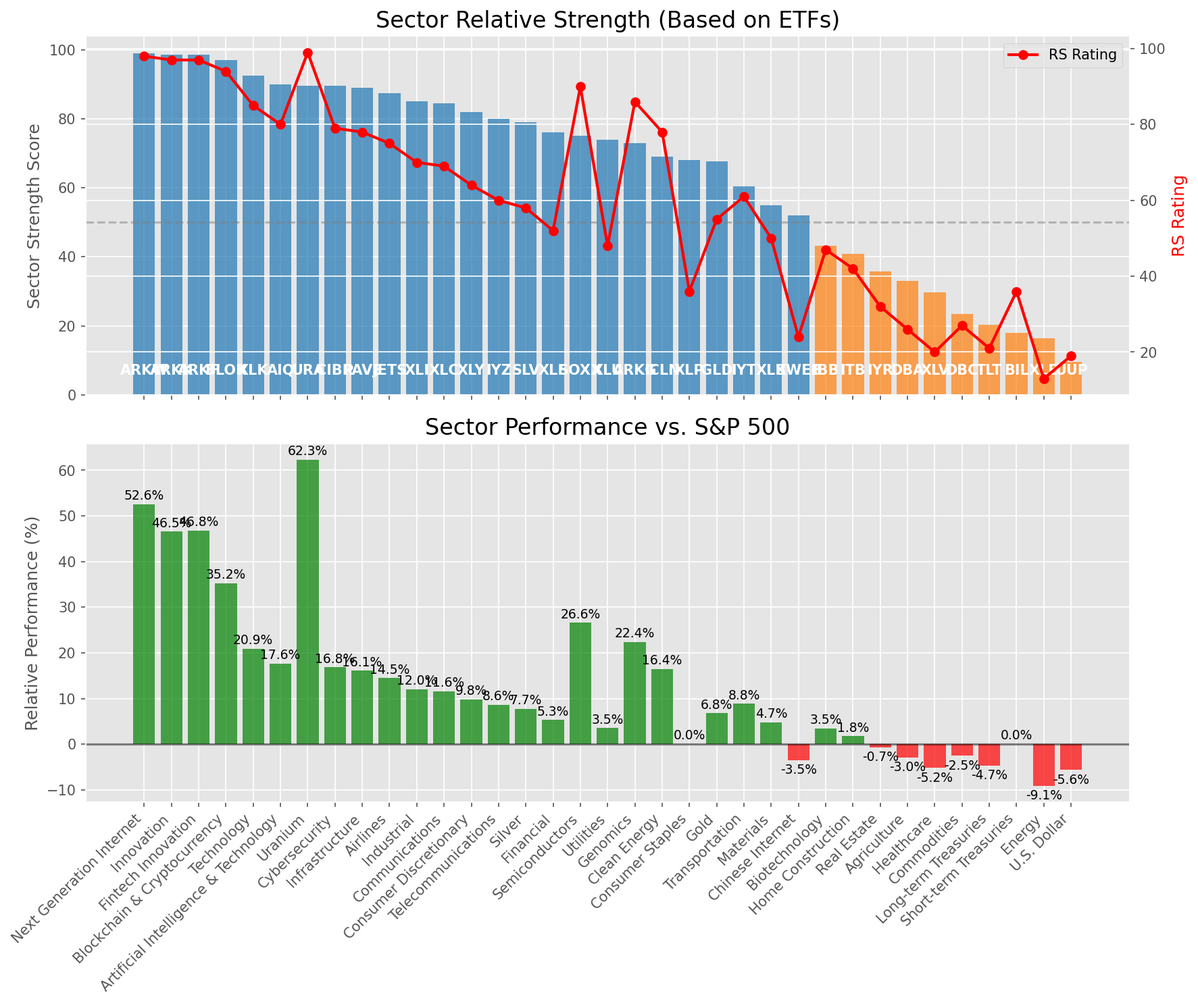
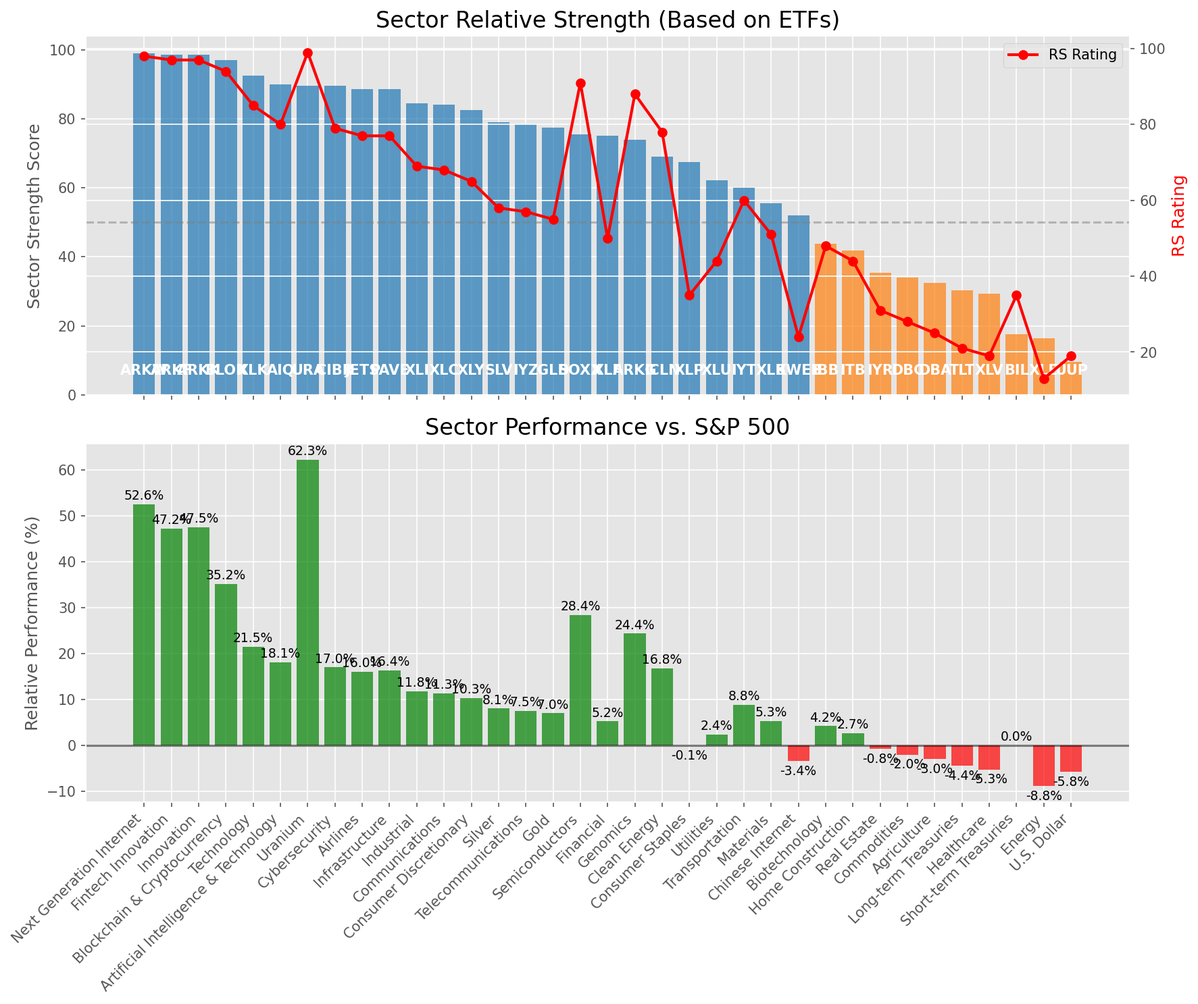
Add market report for 2025-07-02

diff --git a/oneil_relative_strength_report_2025-07-02.md b/oneil_relative_strength_report_2025-07-02.md
@@ -9,11 +9,11 @@
 | Metric | Value |
 |--------|-------|
 | **Market Valuation** | **Overvalued** |
-| **Current Ratio** | 10.15 |
+| **Current Ratio** | 10.17 |
 | **Historical Mean** | 9.37 |
 | **Standard Deviation** | 0.47 |
 | **Z-Score (StdDev from Mean)** | 1.64 |
-| **Total Market Cap** | $304.23 trillion |
+| **Total Market Cap** | $304.67 trillion |
 | **GDP** | $29.96 trillion |
 
 ## **Market Insights**
@@ -50,40 +50,40 @@ Based on William O'Neil's Relative Strength Methodology
 | ETF | Strength | RS Rating | Performance | Above Key MAs | Trend | Sector |
 |-----|----------|-----------|-------------|--------------|-------|--------|
 | [ARKW](https://www.tradingview.com/chart/?symbol=ARKW) | 99.0 | 98.0 | 52.59% | 10d ✓, 50d ✓, 200d ✓ | ↗ | Next Generation Internet |
-| [ARKK](https://www.tradingview.com/chart/?symbol=ARKK) | 98.5 | 97.0 | 46.55% | 10d ✓, 50d ✓, 200d ✓ | ↗ | Innovation |
-| [ARKF](https://www.tradingview.com/chart/?symbol=ARKF) | 98.5 | 97.0 | 46.79% | 10d ✓, 50d ✓, 200d ✓ | ↗ | Fintech Innovation |
+| [ARKF](https://www.tradingview.com/chart/?symbol=ARKF) | 98.5 | 97.0 | 47.24% | 10d ✓, 50d ✓, 200d ✓ | ↗ | Fintech Innovation |
+| [ARKK](https://www.tradingview.com/chart/?symbol=ARKK) | 98.5 | 97.0 | 47.52% | 10d ✓, 50d ✓, 200d ✓ | ↗ | Innovation |
 | [BLOK](https://www.tradingview.com/chart/?symbol=BLOK) | 97.0 | 94.0 | 35.23% | 10d ✓, 50d ✓, 200d ✓ | ↗ | Blockchain & Cryptocurrency |
-| [XLK](https://www.tradingview.com/chart/?symbol=XLK) | 92.5 | 85.0 | 20.91% | 10d ✓, 50d ✓, 200d ✓ | ↗ | Technology |
-| [AIQ](https://www.tradingview.com/chart/?symbol=AIQ) | 90.0 | 80.0 | 17.62% | 10d ✓, 50d ✓, 200d ✓ | ↗ | Artificial Intelligence & Technology |
-| [URA](https://www.tradingview.com/chart/?symbol=URA) | 89.6 | 99.0 | 62.31% | 10d ✗, 50d ✓, 200d ✓ | ↗ | Uranium |
-| [CIBR](https://www.tradingview.com/chart/?symbol=CIBR) | 89.5 | 79.0 | 16.85% | 10d ✓, 50d ✓, 200d ✓ | ↗ | Cybersecurity |
-| [PAVE](https://www.tradingview.com/chart/?symbol=PAVE) | 89.0 | 78.0 | 16.08% | 10d ✓, 50d ✓, 200d ✓ | ↗ | Infrastructure |
-| [JETS](https://www.tradingview.com/chart/?symbol=JETS) | 87.5 | 75.0 | 14.48% | 10d ✓, 50d ✓, 200d ✓ | ↗ | Airlines |
-| [XLI](https://www.tradingview.com/chart/?symbol=XLI) | 85.0 | 70.0 | 12.02% | 10d ✓, 50d ✓, 200d ✓ | ↗ | Industrial |
-| [XLC](https://www.tradingview.com/chart/?symbol=XLC) | 84.5 | 69.0 | 11.62% | 10d ✓, 50d ✓, 200d ✓ | ↗ | Communications |
-| [XLY](https://www.tradingview.com/chart/?symbol=XLY) | 82.0 | 64.0 | 9.79% | 10d ✓, 50d ✓, 200d ✓ | ↗ | Consumer Discretionary |
-| [IYZ](https://www.tradingview.com/chart/?symbol=IYZ) | 80.0 | 60.0 | 8.58% | 10d ✓, 50d ✓, 200d ✓ | ↗ | Telecommunications |
-| [SLV](https://www.tradingview.com/chart/?symbol=SLV) | 79.0 | 58.0 | 7.73% | 10d ✓, 50d ✓, 200d ✓ | ↗ | Silver |
-| [XLF](https://www.tradingview.com/chart/?symbol=XLF) | 76.0 | 52.0 | 5.29% | 10d ✓, 50d ✓, 200d ✓ | ↗ | Financial |
-| [SOXX](https://www.tradingview.com/chart/?symbol=SOXX) | 75.0 | 90.0 | 26.60% | 10d ✓, 50d ✓, 200d ✓ | ↘ | Semiconductors |
-| [XLU](https://www.tradingview.com/chart/?symbol=XLU) | 74.0 | 48.0 | 3.54% | 10d ✓, 50d ✓, 200d ✓ | ↗ | Utilities |
-| [ARKG](https://www.tradingview.com/chart/?symbol=ARKG) | 73.0 | 86.0 | 22.43% | 10d ✓, 50d ✓, 200d ✓ | ↘ | Genomics |
-| [ICLN](https://www.tradingview.com/chart/?symbol=ICLN) | 69.0 | 78.0 | 16.45% | 10d ✓, 50d ✓, 200d ✓ | ↘ | Clean Energy |
-| [XLP](https://www.tradingview.com/chart/?symbol=XLP) | 68.0 | 36.0 | 0.02% | 10d ✓, 50d ✓, 200d ✓ | ↗ | Consumer Staples |
-| [GLD](https://www.tradingview.com/chart/?symbol=GLD) | 67.6 | 55.0 | 6.79% | 10d ✗, 50d ✓, 200d ✓ | ↗ | Gold |
-| [IYT](https://www.tradingview.com/chart/?symbol=IYT) | 60.5 | 61.0 | 8.82% | 10d ✓, 50d ✓, 200d ✓ | ↘ | Transportation |
-| [XLB](https://www.tradingview.com/chart/?symbol=XLB) | 55.0 | 50.0 | 4.74% | 10d ✓, 50d ✓, 200d ✓ | ↘ | Materials |
-| [KWEB](https://www.tradingview.com/chart/?symbol=KWEB) | 52.1 | 24.0 | -3.50% | 10d ✗, 50d ✓, 200d ✓ | ↗ | Chinese Internet |
-| [IBB](https://www.tradingview.com/chart/?symbol=IBB) | 43.3 | 47.0 | 3.47% | 10d ✓, 50d ✓, 200d ✗ | ↘ | Biotechnology |
-| [ITB](https://www.tradingview.com/chart/?symbol=ITB) | 40.8 | 42.0 | 1.75% | 10d ✓, 50d ✓, 200d ✗ | ↘ | Home Construction |
-| [IYR](https://www.tradingview.com/chart/?symbol=IYR) | 35.8 | 32.0 | -0.66% | 10d ✓, 50d ✓, 200d ✗ | ↘ | Real Estate |
-| [DBA](https://www.tradingview.com/chart/?symbol=DBA) | 33.0 | 26.0 | -2.95% | 10d ✗, 50d ✗, 200d ✗ | ↗ | Agriculture |
-| [XLV](https://www.tradingview.com/chart/?symbol=XLV) | 29.8 | 20.0 | -5.22% | 10d ✓, 50d ✓, 200d ✗ | ↘ | Healthcare |
-| [DBC](https://www.tradingview.com/chart/?symbol=DBC) | 23.4 | 27.0 | -2.53% | 10d ✗, 50d ✓, 200d ✗ | ↘ | Commodities |
-| [TLT](https://www.tradingview.com/chart/?symbol=TLT) | 20.4 | 21.0 | -4.68% | 10d ✗, 50d ✓, 200d ✗ | ↘ | Long-term Treasuries |
-| [BIL](https://www.tradingview.com/chart/?symbol=BIL) | 18.0 | 36.0 | 0.02% | 10d ✗, 50d ✗, 200d ✗ | ↘ | Short-term Treasuries |
-| [XLE](https://www.tradingview.com/chart/?symbol=XLE) | 16.4 | 13.0 | -9.15% | 10d ✗, 50d ✓, 200d ✗ | ↘ | Energy |
-| [UUP](https://www.tradingview.com/chart/?symbol=UUP) | 9.5 | 19.0 | -5.62% | 10d ✗, 50d ✗, 200d ✗ | ↘ | U.S. Dollar |
+| [XLK](https://www.tradingview.com/chart/?symbol=XLK) | 92.5 | 85.0 | 21.55% | 10d ✓, 50d ✓, 200d ✓ | ↗ | Technology |
+| [AIQ](https://www.tradingview.com/chart/?symbol=AIQ) | 90.0 | 80.0 | 18.08% | 10d ✓, 50d ✓, 200d ✓ | ↗ | Artificial Intelligence & Technology |
+| [URA](https://www.tradingview.com/chart/?symbol=URA) | 89.6 | 99.0 | 62.26% | 10d ✗, 50d ✓, 200d ✓ | ↗ | Uranium |
+| [CIBR](https://www.tradingview.com/chart/?symbol=CIBR) | 89.5 | 79.0 | 17.03% | 10d ✓, 50d ✓, 200d ✓ | ↗ | Cybersecurity |
+| [JETS](https://www.tradingview.com/chart/?symbol=JETS) | 88.5 | 77.0 | 16.02% | 10d ✓, 50d ✓, 200d ✓ | ↗ | Airlines |
+| [PAVE](https://www.tradingview.com/chart/?symbol=PAVE) | 88.5 | 77.0 | 16.37% | 10d ✓, 50d ✓, 200d ✓ | ↗ | Infrastructure |
+| [XLI](https://www.tradingview.com/chart/?symbol=XLI) | 84.5 | 69.0 | 11.84% | 10d ✓, 50d ✓, 200d ✓ | ↗ | Industrial |
+| [XLC](https://www.tradingview.com/chart/?symbol=XLC) | 84.0 | 68.0 | 11.35% | 10d ✓, 50d ✓, 200d ✓ | ↗ | Communications |
+| [XLY](https://www.tradingview.com/chart/?symbol=XLY) | 82.5 | 65.0 | 10.29% | 10d ✓, 50d ✓, 200d ✓ | ↗ | Consumer Discretionary |
+| [SLV](https://www.tradingview.com/chart/?symbol=SLV) | 79.0 | 58.0 | 8.06% | 10d ✓, 50d ✓, 200d ✓ | ↗ | Silver |
+| [IYZ](https://www.tradingview.com/chart/?symbol=IYZ) | 78.5 | 57.0 | 7.53% | 10d ✓, 50d ✓, 200d ✓ | ↗ | Telecommunications |
+| [GLD](https://www.tradingview.com/chart/?symbol=GLD) | 77.5 | 55.0 | 7.01% | 10d ✓, 50d ✓, 200d ✓ | ↗ | Gold |
+| [SOXX](https://www.tradingview.com/chart/?symbol=SOXX) | 75.5 | 91.0 | 28.43% | 10d ✓, 50d ✓, 200d ✓ | ↘ | Semiconductors |
+| [XLF](https://www.tradingview.com/chart/?symbol=XLF) | 75.0 | 50.0 | 5.25% | 10d ✓, 50d ✓, 200d ✓ | ↗ | Financial |
+| [ARKG](https://www.tradingview.com/chart/?symbol=ARKG) | 74.0 | 88.0 | 24.36% | 10d ✓, 50d ✓, 200d ✓ | ↘ | Genomics |
+| [ICLN](https://www.tradingview.com/chart/?symbol=ICLN) | 69.0 | 78.0 | 16.80% | 10d ✓, 50d ✓, 200d ✓ | ↘ | Clean Energy |
+| [XLP](https://www.tradingview.com/chart/?symbol=XLP) | 67.5 | 35.0 | -0.06% | 10d ✓, 50d ✓, 200d ✓ | ↗ | Consumer Staples |
+| [XLU](https://www.tradingview.com/chart/?symbol=XLU) | 62.1 | 44.0 | 2.39% | 10d ✗, 50d ✓, 200d ✓ | ↗ | Utilities |
+| [IYT](https://www.tradingview.com/chart/?symbol=IYT) | 60.0 | 60.0 | 8.82% | 10d ✓, 50d ✓, 200d ✓ | ↘ | Transportation |
+| [XLB](https://www.tradingview.com/chart/?symbol=XLB) | 55.5 | 51.0 | 5.28% | 10d ✓, 50d ✓, 200d ✓ | ↘ | Materials |
+| [KWEB](https://www.tradingview.com/chart/?symbol=KWEB) | 52.1 | 24.0 | -3.40% | 10d ✗, 50d ✓, 200d ✓ | ↗ | Chinese Internet |
+| [IBB](https://www.tradingview.com/chart/?symbol=IBB) | 43.8 | 48.0 | 4.23% | 10d ✓, 50d ✓, 200d ✗ | ↘ | Biotechnology |
+| [ITB](https://www.tradingview.com/chart/?symbol=ITB) | 41.8 | 44.0 | 2.68% | 10d ✓, 50d ✓, 200d ✗ | ↘ | Home Construction |
+| [IYR](https://www.tradingview.com/chart/?symbol=IYR) | 35.3 | 31.0 | -0.78% | 10d ✓, 50d ✓, 200d ✗ | ↘ | Real Estate |
+| [DBC](https://www.tradingview.com/chart/?symbol=DBC) | 34.1 | 28.0 | -2.00% | 10d ✗, 50d ✓, 200d ✓ | ↘ | Commodities |
+| [DBA](https://www.tradingview.com/chart/?symbol=DBA) | 32.5 | 25.0 | -2.95% | 10d ✗, 50d ✗, 200d ✗ | ↗ | Agriculture |
+| [TLT](https://www.tradingview.com/chart/?symbol=TLT) | 30.3 | 21.0 | -4.45% | 10d ✓, 50d ✓, 200d ✗ | ↘ | Long-term Treasuries |
+| [XLV](https://www.tradingview.com/chart/?symbol=XLV) | 29.3 | 19.0 | -5.28% | 10d ✓, 50d ✓, 200d ✗ | ↘ | Healthcare |
+| [BIL](https://www.tradingview.com/chart/?symbol=BIL) | 17.5 | 35.0 | 0.02% | 10d ✗, 50d ✗, 200d ✗ | ↘ | Short-term Treasuries |
+| [XLE](https://www.tradingview.com/chart/?symbol=XLE) | 16.4 | 13.0 | -8.82% | 10d ✗, 50d ✓, 200d ✗ | ↘ | Energy |
+| [UUP](https://www.tradingview.com/chart/?symbol=UUP) | 9.5 | 19.0 | -5.78% | 10d ✗, 50d ✗, 200d ✗ | ↘ | U.S. Dollar |
 
 ### **Sector ETF Performance Interpretation**
 
@@ -98,7 +98,7 @@ This table shows the relative strength metrics for different market sectors base
 
 ### **Current Sector Leadership**
 
-The current market leadership is coming from the following sectors: **Next Generation Internet, Innovation, Fintech Innovation**.
+The current market leadership is coming from the following sectors: **Next Generation Internet, Fintech Innovation, Innovation**.
 
 The **Next Generation Internet** sector (represented by **ARKW**) is showing particularly strong relative strength with an RS rating of 98.0 and performance of 52.59% vs. the S&P 500. This sector is trading above its 10-day, 50-day, 200-day moving average(s). Investors should consider focusing on high RS stocks within these leading sectors for potential outperformance.
 
@@ -106,137 +106,126 @@ The **Next Generation Internet** sector (represented by **ARKW**) is showing par
 
 ## **Buy Recommendations**
 
-The following 59 stocks show exceptional relative strength:
+The following 51 stocks show exceptional relative strength:
 
 | RS Rating | Buy Score | Current Price | Chart | Name | Ticker |
 |-----------|-----------|---------------|-------|------|--------|
-| 100 | 100 | $150.14 | [Chart](https://www.tradingview.com/chart/?symbol=CLS) | Celestica, Inc. | CLS |
-| 100 | 100 | $170.72 | [Chart](https://www.tradingview.com/chart/?symbol=SEZL) | Sezzle Inc. Common Stock | SEZL |
-| 100 | 100 | $97.59 | [Chart](https://www.tradingview.com/chart/?symbol=HOOD) | Robinhood Markets, Inc. Class A Common Stock | HOOD |
+| 100 | 100 | $151.32 | [Chart](https://www.tradingview.com/chart/?symbol=CLS) | Celestica, Inc. | CLS |
+| 100 | 100 | $98.77 | [Chart](https://www.tradingview.com/chart/?symbol=HOOD) | Robinhood Markets, Inc. Class A Common Stock | HOOD |
 | 100 | 100 | $260.67 | [Chart](https://www.tradingview.com/chart/?symbol=DAVE) | Dave Inc. Class A Common Stock | DAVE |
-| 99 | 100 | $103.60 | [Chart](https://www.tradingview.com/chart/?symbol=RBLX) | Roblox Corporation | RBLX |
-| 99 | 100 | $43.91 | [Chart](https://www.tradingview.com/chart/?symbol=FARO) | Faro Technologies Inc | FARO |
-| 99 | 100 | $509.87 | [Chart](https://www.tradingview.com/chart/?symbol=GEV) | GE Vernova Inc. | GEV |
+| 100 | 100 | $171.97 | [Chart](https://www.tradingview.com/chart/?symbol=SEZL) | Sezzle Inc. Common Stock | SEZL |
 | 99 | 100 | $74.24 | [Chart](https://www.tradingview.com/chart/?symbol=ODD) | ODDITY Tech Ltd. Class A Ordinary Shares | ODD |
-| 99 | 100 | $345.79 | [Chart](https://www.tradingview.com/chart/?symbol=CVNA) | Carvana Co. | CVNA |
-| 98 | 100 | $311.29 | [Chart](https://www.tradingview.com/chart/?symbol=ZS) | Zscaler, Inc. Common Stock | ZS |
-| 98 | 100 | $322.46 | [Chart](https://www.tradingview.com/chart/?symbol=RCL) | Royal Caribbean Group | RCL |
-| 98 | 100 | $218.39 | [Chart](https://www.tradingview.com/chart/?symbol=JBL) | Jabil Inc. | JBL |
-| 98 | 100 | $157.08 | [Chart](https://www.tradingview.com/chart/?symbol=NRG) | NRG Energy, Inc. | NRG |
-| 97 | 100 | $271.75 | [Chart](https://www.tradingview.com/chart/?symbol=CRS) | Carpenter Technology Corp | CRS |
+| 99 | 100 | $43.92 | [Chart](https://www.tradingview.com/chart/?symbol=FARO) | Faro Technologies Inc | FARO |
+| 99 | 100 | $217.76 | [Chart](https://www.tradingview.com/chart/?symbol=JBL) | Jabil Inc. | JBL |
+| 99 | 100 | $346.04 | [Chart](https://www.tradingview.com/chart/?symbol=CVNA) | Carvana Co. | CVNA |
+| 98 | 100 | $322.20 | [Chart](https://www.tradingview.com/chart/?symbol=RCL) | Royal Caribbean Group | RCL |
+| 97 | 100 | $272.69 | [Chart](https://www.tradingview.com/chart/?symbol=CRS) | Carpenter Technology Corp | CRS |
 | 96 | 100 | $52.60 | [Chart](https://www.tradingview.com/chart/?symbol=BBW) | Build-A-Bear Workshop, Inc. | BBW |
-| 95 | 100 | $73.59 | [Chart](https://www.tradingview.com/chart/?symbol=URBN) | Urban Outfitters Inc | URBN |
-| 95 | 100 | $1292.77 | [Chart](https://www.tradingview.com/chart/?symbol=NFLX) | NetFlix Inc | NFLX |
-| 95 | 100 | $21.34 | [Chart](https://www.tradingview.com/chart/?symbol=MAG) | MAG Silver Corp. | MAG |
-| 95 | 100 | $37.79 | [Chart](https://www.tradingview.com/chart/?symbol=AS) | Amer Sports, Inc. | AS |
-| 94 | 100 | $244.35 | [Chart](https://www.tradingview.com/chart/?symbol=WWD) | Woodward, Inc. | WWD |
-| 94 | 100 | $45.09 | [Chart](https://www.tradingview.com/chart/?symbol=DRS) | Leonardo DRS, Inc. Common Stock | DRS |
-| 93 | 100 | $17.59 | [Chart](https://www.tradingview.com/chart/?symbol=DAN) | Dana Incorporated | DAN |
-| 93 | 100 | $57.41 | [Chart](https://www.tradingview.com/chart/?symbol=IBKR) | Interactive Brokers Group, Inc. Class A Common Stock | IBKR |
-| 93 | 100 | $241.92 | [Chart](https://www.tradingview.com/chart/?symbol=DASH) | DoorDash, Inc. Class A Common Stock | DASH |
-| 92 | 100 | $98.49 | [Chart](https://www.tradingview.com/chart/?symbol=SANM) | Sanmina  Corp | SANM |
-| 92 | 100 | $32.56 | [Chart](https://www.tradingview.com/chart/?symbol=PRDO) | Perdoceo Education Corporation | PRDO |
-| 92 | 100 | $41.58 | [Chart](https://www.tradingview.com/chart/?symbol=KD) | Kyndryl Holdings, Inc. | KD |
-| 91 | 100 | $27.76 | [Chart](https://www.tradingview.com/chart/?symbol=SRAD) | Sportradar Group AG Class A Ordinary Shares | SRAD |
-| 91 | 100 | $104.98 | [Chart](https://www.tradingview.com/chart/?symbol=JCI) | Johnson Controls International plc | JCI |
-| 90 | 100 | $64.32 | [Chart](https://www.tradingview.com/chart/?symbol=CAKE) | Cheesecake Factory (The) | CAKE |
-| 89 | 100 | $25.31 | [Chart](https://www.tradingview.com/chart/?symbol=KAR) | OPENLANE, Inc | KAR |
-| 88 | 99 | $282.62 | [Chart](https://www.tradingview.com/chart/?symbol=VEEV) | Veeva Systems Inc. | VEEV |
+| 96 | 100 | $37.92 | [Chart](https://www.tradingview.com/chart/?symbol=AS) | Amer Sports, Inc. | AS |
+| 95 | 100 | $73.10 | [Chart](https://www.tradingview.com/chart/?symbol=URBN) | Urban Outfitters Inc | URBN |
+| 94 | 100 | $493.40 | [Chart](https://www.tradingview.com/chart/?symbol=CRWD) | CrowdStrike Holdings, Inc. Class A Common Stock | CRWD |
+| 94 | 100 | $44.63 | [Chart](https://www.tradingview.com/chart/?symbol=DRS) | Leonardo DRS, Inc. Common Stock | DRS |
+| 94 | 100 | $67.42 | [Chart](https://www.tradingview.com/chart/?symbol=RYTM) | Rhythm Pharmaceuticals, Inc. Common Stock | RYTM |
+| 93 | 100 | $17.64 | [Chart](https://www.tradingview.com/chart/?symbol=DAN) | Dana Incorporated | DAN |
+| 93 | 100 | $239.83 | [Chart](https://www.tradingview.com/chart/?symbol=DASH) | DoorDash, Inc. Class A Common Stock | DASH |
+| 93 | 100 | $57.77 | [Chart](https://www.tradingview.com/chart/?symbol=IBKR) | Interactive Brokers Group, Inc. Class A Common Stock | IBKR |
+| 92 | 100 | $245.54 | [Chart](https://www.tradingview.com/chart/?symbol=WWD) | Woodward, Inc. | WWD |
+| 91 | 100 | $98.49 | [Chart](https://www.tradingview.com/chart/?symbol=SANM) | Sanmina  Corp | SANM |
+| 91 | 100 | $104.38 | [Chart](https://www.tradingview.com/chart/?symbol=JCI) | Johnson Controls International plc | JCI |
+| 91 | 100 | $41.39 | [Chart](https://www.tradingview.com/chart/?symbol=KD) | Kyndryl Holdings, Inc. | KD |
+| 90 | 100 | $27.75 | [Chart](https://www.tradingview.com/chart/?symbol=SRAD) | Sportradar Group AG Class A Ordinary Shares | SRAD |
+| 90 | 100 | $61.70 | [Chart](https://www.tradingview.com/chart/?symbol=IBIT) | iShares Bitcoin Trust ETF | IBIT |
+| 89 | 100 | $64.37 | [Chart](https://www.tradingview.com/chart/?symbol=CAKE) | Cheesecake Factory (The) | CAKE |
+| 89 | 100 | $133.09 | [Chart](https://www.tradingview.com/chart/?symbol=NTES) | NetEase, inc. | NTES |
+| 89 | 100 | $25.25 | [Chart](https://www.tradingview.com/chart/?symbol=KAR) | OPENLANE, Inc | KAR |
+| 88 | 100 | $155.26 | [Chart](https://www.tradingview.com/chart/?symbol=COOP) | Mr. Cooper Group Inc. Common Stock | COOP |
 | 88 | 99 | $5730.73 | [Chart](https://www.tradingview.com/chart/?symbol=BKNG) | Booking Holdings Inc. Common Stock | BKNG |
-| 87 | 99 | $154.46 | [Chart](https://www.tradingview.com/chart/?symbol=COOP) | Mr. Cooper Group Inc. Common Stock | COOP |
-| 85 | 98 | $44.10 | [Chart](https://www.tradingview.com/chart/?symbol=EXEL) | Exelixis Inc | EXEL |
-| 85 | 98 | $182.75 | [Chart](https://www.tradingview.com/chart/?symbol=EAT) | Brinker International, Inc. | EAT |
-| 88 | 97 | $48.45 | [Chart](https://www.tradingview.com/chart/?symbol=SIL) | Global X Silver Miners ETF (NEW) | SIL |
-| 84 | 97 | $21.31 | [Chart](https://www.tradingview.com/chart/?symbol=KT) | KT Corp. | KT |
-| 87 | 96 | $65.44 | [Chart](https://www.tradingview.com/chart/?symbol=RYTM) | Rhythm Pharmaceuticals, Inc. Common Stock | RYTM |
+| 87 | 97 | $84.36 | [Chart](https://www.tradingview.com/chart/?symbol=SLNO) | Soleno Therapeutics, Inc. Common Stock | SLNO |
+| 84 | 97 | $44.10 | [Chart](https://www.tradingview.com/chart/?symbol=EXEL) | Exelixis Inc | EXEL |
+| 84 | 97 | $28.99 | [Chart](https://www.tradingview.com/chart/?symbol=DB) | Deutsche Bank Aktiengesellschaft | DB |
 | 86 | 96 | $250.81 | [Chart](https://www.tradingview.com/chart/?symbol=WTS) | Watts Water Technologies, Inc. Class A | WTS |
-| 85 | 96 | $215.75 | [Chart](https://www.tradingview.com/chart/?symbol=COF) | Capital One Financial | COF |
+| 85 | 96 | $217.85 | [Chart](https://www.tradingview.com/chart/?symbol=COF) | Capital One Financial | COF |
+| 83 | 96 | $181.22 | [Chart](https://www.tradingview.com/chart/?symbol=EAT) | Brinker International, Inc. | EAT |
 | 82 | 96 | $90.89 | [Chart](https://www.tradingview.com/chart/?symbol=SNEX) | StoneX Group Inc. Common Stock | SNEX |
-| 84 | 95 | $185.01 | [Chart](https://www.tradingview.com/chart/?symbol=ITA) | iShares U.S. Aerospace & Defense ETF | ITA |
-| 84 | 94 | $29.45 | [Chart](https://www.tradingview.com/chart/?symbol=NTGR) | NETGEAR, Inc. | NTGR |
+| 86 | 95 | $48.08 | [Chart](https://www.tradingview.com/chart/?symbol=SIL) | Global X Silver Miners ETF (NEW) | SIL |
+| 82 | 95 | $21.11 | [Chart](https://www.tradingview.com/chart/?symbol=KT) | KT Corp. | KT |
 | 84 | 94 | $139.82 | [Chart](https://www.tradingview.com/chart/?symbol=PPA) | Invesco Aerospace & Defense ETF | PPA |
-| 83 | 94 | $75.92 | [Chart](https://www.tradingview.com/chart/?symbol=CTVA) | Corteva, Inc. Common Stock | CTVA |
-| 81 | 94 | $36.46 | [Chart](https://www.tradingview.com/chart/?symbol=AHR) | American Healthcare REIT, Inc. | AHR |
-| 81 | 94 | $28.98 | [Chart](https://www.tradingview.com/chart/?symbol=CAE) | CAE INC | CAE |
-| 83 | 93 | $111.06 | [Chart](https://www.tradingview.com/chart/?symbol=SPMO) | Invesco S&P 500 Momentum ETF | SPMO |
-| 83 | 93 | $50.65 | [Chart](https://www.tradingview.com/chart/?symbol=GH) | Guardant Health, Inc. Common Stock | GH |
-| 81 | 93 | $80.39 | [Chart](https://www.tradingview.com/chart/?symbol=LLYVK) | Liberty Media Corporation Series C Liberty Live Common Stock | LLYVK |
-| 82 | 92 | $33.93 | [Chart](https://www.tradingview.com/chart/?symbol=ATAT) | Atour Lifestyle Holdings Limited American Depositary Shares | ATAT |
-| 81 | 92 | $222.63 | [Chart](https://www.tradingview.com/chart/?symbol=BAP) | Credicorp LTD | BAP |
+| 83 | 94 | $51.07 | [Chart](https://www.tradingview.com/chart/?symbol=GH) | Guardant Health, Inc. Common Stock | GH |
+| 83 | 94 | $76.10 | [Chart](https://www.tradingview.com/chart/?symbol=CTVA) | Corteva, Inc. Common Stock | CTVA |
+| 83 | 93 | $29.45 | [Chart](https://www.tradingview.com/chart/?symbol=NTGR) | NETGEAR, Inc. | NTGR |
+| 82 | 93 | $222.63 | [Chart](https://www.tradingview.com/chart/?symbol=BAP) | Credicorp LTD | BAP |
+| 82 | 93 | $183.73 | [Chart](https://www.tradingview.com/chart/?symbol=ITA) | iShares U.S. Aerospace & Defense ETF | ITA |
+| 80 | 93 | $28.98 | [Chart](https://www.tradingview.com/chart/?symbol=CAE) | CAE INC | CAE |
+| 82 | 92 | $111.10 | [Chart](https://www.tradingview.com/chart/?symbol=SPMO) | Invesco S&P 500 Momentum ETF | SPMO |
 | 80 | 92 | $510.64 | [Chart](https://www.tradingview.com/chart/?symbol=CASY) | Casey's General Stores Inc | CASY |
-| 81 | 91 | $91.50 | [Chart](https://www.tradingview.com/chart/?symbol=SEIC) | SEI Investments Co | SEIC |
-| 80 | 91 | $77.36 | [Chart](https://www.tradingview.com/chart/?symbol=USFD) | US Foods Holding Corp. | USFD |
-| 80 | 91 | $27.41 | [Chart](https://www.tradingview.com/chart/?symbol=UVE) | UNIVERSAL INSURANCE HLDG, INC. | UVE |
-| 80 | 90 | $89.04 | [Chart](https://www.tradingview.com/chart/?symbol=NDAQ) | Nasdaq, Inc. Common Stock | NDAQ |
-| 80 | 89 | $121.14 | [Chart](https://www.tradingview.com/chart/?symbol=FUTU) | Futu Holdings Limited American Depositary Shares | FUTU |
+| 80 | 92 | $80.39 | [Chart](https://www.tradingview.com/chart/?symbol=LLYVK) | Liberty Media Corporation Series C Liberty Live Common Stock | LLYVK |
+| 80 | 90 | $91.27 | [Chart](https://www.tradingview.com/chart/?symbol=SEIC) | SEI Investments Co | SEIC |
+| 80 | 89 | $121.94 | [Chart](https://www.tradingview.com/chart/?symbol=FUTU) | Futu Holdings Limited American Depositary Shares | FUTU |
 
 ---
 
 
 ## **Sell Recommendations**
 
-The following 58 stocks show deteriorating relative strength:
+The following 55 stocks show deteriorating relative strength:
 
 | RS Rating | Sell Score | Current Price | Chart | Name | Ticker |
 |-----------|------------|---------------|-------|------|--------|
-| 1 | 100 | $27.44 | [Chart](https://www.tradingview.com/chart/?symbol=TECS) | Direxion Daily Technology Bear 3x Shares | TECS |
-| 1 | 100 | $16.54 | [Chart](https://www.tradingview.com/chart/?symbol=SRTY) | ProShares UltraPro Short Russell2000 | SRTY |
+| 1 | 100 | $16.28 | [Chart](https://www.tradingview.com/chart/?symbol=SRTY) | ProShares UltraPro Short Russell2000 | SRTY |
 | 1 | 100 | $10.09 | [Chart](https://www.tradingview.com/chart/?symbol=HIBS) | Direxion Daily S&P 500 High Beta Bear 3X Shares | HIBS |
-| 1 | 100 | $14.77 | [Chart](https://www.tradingview.com/chart/?symbol=NVDS) | Investment Managers Series Trust II Tradr 1.5X Short NVDA Daily ETF | NVDS |
-| 2 | 100 | $25.60 | [Chart](https://www.tradingview.com/chart/?symbol=QID) | ProShares UltraShort QQQ | QID |
-| 2 | 100 | $11.82 | [Chart](https://www.tradingview.com/chart/?symbol=LBRT) | Liberty Energy Inc. | LBRT |
+| 1 | 100 | $14.57 | [Chart](https://www.tradingview.com/chart/?symbol=NVDS) | Investment Managers Series Trust II Tradr 1.5X Short NVDA Daily ETF | NVDS |
+| 1 | 100 | $26.86 | [Chart](https://www.tradingview.com/chart/?symbol=TECS) | Direxion Daily Technology Bear 3x Shares | TECS |
+| 2 | 100 | $12.09 | [Chart](https://www.tradingview.com/chart/?symbol=LBRT) | Liberty Energy Inc. | LBRT |
+| 2 | 100 | $19.50 | [Chart](https://www.tradingview.com/chart/?symbol=BITI) | ProShares Short Bitcoin ETF | BITI |
+| 2 | 100 | $25.44 | [Chart](https://www.tradingview.com/chart/?symbol=QID) | ProShares UltraShort QQQ | QID |
+| 2 | 100 | $248.63 | [Chart](https://www.tradingview.com/chart/?symbol=MOH) | Molina Healthcare, Inc. | MOH |
 | 2 | 100 | $24.27 | [Chart](https://www.tradingview.com/chart/?symbol=CRTO) | Criteo S.A. | CRTO |
-| 2 | 100 | $248.14 | [Chart](https://www.tradingview.com/chart/?symbol=MOH) | Molina Healthcare, Inc. | MOH |
-| 3 | 100 | $19.61 | [Chart](https://www.tradingview.com/chart/?symbol=BITI) | ProShares Short Bitcoin ETF | BITI |
-| 3 | 100 | $40.69 | [Chart](https://www.tradingview.com/chart/?symbol=SDOW) | ProShares UltraPro Short Dow 30 | SDOW |
-| 3 | 100 | $16.66 | [Chart](https://www.tradingview.com/chart/?symbol=SDS) | ProShares UltraShort S&P500 | SDS |
-| 3 | 100 | $43.40 | [Chart](https://www.tradingview.com/chart/?symbol=LINE) | Lineage, Inc. Common Stock | LINE |
-| 4 | 100 | $79.42 | [Chart](https://www.tradingview.com/chart/?symbol=LNTH) | Lantheus Holdings, Inc | LNTH |
-| 4 | 100 | $12.27 | [Chart](https://www.tradingview.com/chart/?symbol=VFC) | V.F. Corporation | VFC |
-| 5 | 100 | $361.17 | [Chart](https://www.tradingview.com/chart/?symbol=ELV) | Elevance Health, Inc. | ELV |
-| 6 | 100 | $33.86 | [Chart](https://www.tradingview.com/chart/?symbol=PSQ) | ProShares Short QQQ | PSQ |
-| 7 | 100 | $104.16 | [Chart](https://www.tradingview.com/chart/?symbol=PDD) | PDD Holdings Inc. American Depositary Shares | PDD |
-| 7 | 100 | $10.37 | [Chart](https://www.tradingview.com/chart/?symbol=LBTYK) | Liberty Global Ltd. Class C Common Shares | LBTYK |
-| 8 | 100 | $23.93 | [Chart](https://www.tradingview.com/chart/?symbol=DXD) | ProShares UltraShort Dow 30 | DXD |
-| 10 | 100 | $39.69 | [Chart](https://www.tradingview.com/chart/?symbol=SH) | ProShares Short S&P500 | SH |
-| 11 | 100 | $36.41 | [Chart](https://www.tradingview.com/chart/?symbol=SARK) | Investment Managers Series Trust II Tradr 1X Short Innovation Daily ETF | SARK |
-| 12 | 100 | $17.94 | [Chart](https://www.tradingview.com/chart/?symbol=ZTO) | ZTO Express (Cayman) Inc. American Depositary Shares, each representing one Class A ordinary share | ZTO |
-| 13 | 100 | $65.42 | [Chart](https://www.tradingview.com/chart/?symbol=ZROZ) | PIMCO 25+ Year Zero Coupon U.S. Treasury Index Exchange-Traded Fund | ZROZ |
+| 3 | 100 | $40.45 | [Chart](https://www.tradingview.com/chart/?symbol=SDOW) | ProShares UltraPro Short Dow 30 | SDOW |
+| 3 | 100 | $43.67 | [Chart](https://www.tradingview.com/chart/?symbol=LINE) | Lineage, Inc. Common Stock | LINE |
+| 4 | 100 | $79.77 | [Chart](https://www.tradingview.com/chart/?symbol=LNTH) | Lantheus Holdings, Inc | LNTH |
+| 5 | 100 | $33.76 | [Chart](https://www.tradingview.com/chart/?symbol=PSQ) | ProShares Short QQQ | PSQ |
+| 6 | 100 | $365.31 | [Chart](https://www.tradingview.com/chart/?symbol=ELV) | Elevance Health, Inc. | ELV |
+| 6 | 100 | $10.27 | [Chart](https://www.tradingview.com/chart/?symbol=LBTYK) | Liberty Global Ltd. Class C Common Shares | LBTYK |
+| 7 | 100 | $104.66 | [Chart](https://www.tradingview.com/chart/?symbol=PDD) | PDD Holdings Inc. American Depositary Shares | PDD |
+| 7 | 100 | $23.84 | [Chart](https://www.tradingview.com/chart/?symbol=DXD) | ProShares UltraShort Dow 30 | DXD |
+| 8 | 100 | $35.58 | [Chart](https://www.tradingview.com/chart/?symbol=SARK) | Investment Managers Series Trust II Tradr 1X Short Innovation Daily ETF | SARK |
+| 11 | 100 | $13.87 | [Chart](https://www.tradingview.com/chart/?symbol=OCSL) | Oaktree Specialty Lending Corporation | OCSL |
+| 12 | 100 | $17.98 | [Chart](https://www.tradingview.com/chart/?symbol=ZTO) | ZTO Express (Cayman) Inc. American Depositary Shares, each representing one Class A ordinary share | ZTO |
+| 3 | 99 | $16.62 | [Chart](https://www.tradingview.com/chart/?symbol=SDS) | ProShares UltraShort S&P500 | SDS |
 | 5 | 99 | $17.25 | [Chart](https://www.tradingview.com/chart/?symbol=CODI) | Compass Diversified | CODI |
-| 11 | 99 | $13.75 | [Chart](https://www.tradingview.com/chart/?symbol=OCSL) | Oaktree Specialty Lending Corporation | OCSL |
-| 4 | 97 | $81.01 | [Chart](https://www.tradingview.com/chart/?symbol=OKE) | Oneok, Inc. | OKE |
-| 10 | 97 | $18.09 | [Chart](https://www.tradingview.com/chart/?symbol=DJT) | Trump Media & Technology Group Corp. Common Stock | DJT |
-| 10 | 97 | $25.94 | [Chart](https://www.tradingview.com/chart/?symbol=ZSL) | ProShares UltraShort Silver | ZSL |
+| 10 | 99 | $39.63 | [Chart](https://www.tradingview.com/chart/?symbol=SH) | ProShares Short S&P500 | SH |
+| 9 | 98 | $25.94 | [Chart](https://www.tradingview.com/chart/?symbol=ZSL) | ProShares UltraShort Silver | ZSL |
+| 4 | 96 | $80.41 | [Chart](https://www.tradingview.com/chart/?symbol=OKE) | Oneok, Inc. | OKE |
+| 10 | 96 | $54.07 | [Chart](https://www.tradingview.com/chart/?symbol=CNMD) | CONMED Corporation | CNMD |
 | 6 | 95 | $24.77 | [Chart](https://www.tradingview.com/chart/?symbol=DRV) | Direxion Daily Real Estate Bear 3X Shares | DRV |
-| 11 | 95 | $54.07 | [Chart](https://www.tradingview.com/chart/?symbol=CNMD) | CONMED Corporation | CNMD |
-| 17 | 94 | $85.63 | [Chart](https://www.tradingview.com/chart/?symbol=BIDU) | Baidu, Inc. | BIDU |
-| 17 | 94 | $15.08 | [Chart](https://www.tradingview.com/chart/?symbol=PAXS) | PIMCO Access Income Fund | PAXS |
-| 8 | 93 | $12.54 | [Chart](https://www.tradingview.com/chart/?symbol=WSR) | Whitestone REIT | WSR |
-| 12 | 93 | $49.08 | [Chart](https://www.tradingview.com/chart/?symbol=SNY) | Sanofi American Depositary Shares (Each representing one-half of one ordinary share) | SNY |
-| 17 | 93 | $25.33 | [Chart](https://www.tradingview.com/chart/?symbol=DOG) | ProShares Short Dow30 | DOG |
-| 14 | 92 | $131.16 | [Chart](https://www.tradingview.com/chart/?symbol=KMB) | Kimberly-Clark Corp. | KMB |
+| 11 | 95 | $18.17 | [Chart](https://www.tradingview.com/chart/?symbol=DJT) | Trump Media & Technology Group Corp. Common Stock | DJT |
+| 7 | 94 | $12.54 | [Chart](https://www.tradingview.com/chart/?symbol=WSR) | Whitestone REIT | WSR |
+| 13 | 94 | $332.58 | [Chart](https://www.tradingview.com/chart/?symbol=EG) | Everest Group, Ltd. | EG |
+| 12 | 93 | $49.15 | [Chart](https://www.tradingview.com/chart/?symbol=SNY) | Sanofi American Depositary Shares (Each representing one-half of one ordinary share) | SNY |
+| 18 | 93 | $86.18 | [Chart](https://www.tradingview.com/chart/?symbol=BIDU) | Baidu, Inc. | BIDU |
+| 17 | 92 | $25.29 | [Chart](https://www.tradingview.com/chart/?symbol=DOG) | ProShares Short Dow30 | DOG |
 | 23 | 92 | $10.36 | [Chart](https://www.tradingview.com/chart/?symbol=MUC) | BLACKROCK MUNIHOLDINGS CALIFORNIA QUALITY FUND, INC | MUC |
+| 10 | 91 | $40.20 | [Chart](https://www.tradingview.com/chart/?symbol=UDR) | UDR, Inc. | UDR |
+| 14 | 91 | $131.22 | [Chart](https://www.tradingview.com/chart/?symbol=KMB) | Kimberly-Clark Corp. | KMB |
 | 20 | 91 | $87.16 | [Chart](https://www.tradingview.com/chart/?symbol=SIGI) | Selective Insurance Group | SIGI |
-| 11 | 90 | $40.41 | [Chart](https://www.tradingview.com/chart/?symbol=UDR) | UDR, Inc. | UDR |
-| 14 | 89 | $30.65 | [Chart](https://www.tradingview.com/chart/?symbol=AXTA) | Axalta Coating Systems Ltd. | AXTA |
-| 15 | 88 | $14.84 | [Chart](https://www.tradingview.com/chart/?symbol=PLSE) | Pulse Biosciences, Inc Common Stock (DE) | PLSE |
+| 14 | 89 | $14.84 | [Chart](https://www.tradingview.com/chart/?symbol=PLSE) | Pulse Biosciences, Inc Common Stock (DE) | PLSE |
+| 15 | 88 | $30.98 | [Chart](https://www.tradingview.com/chart/?symbol=AXTA) | Axalta Coating Systems Ltd. | AXTA |
 | 21 | 88 | $21.86 | [Chart](https://www.tradingview.com/chart/?symbol=KIDS) | OrthoPediatrics Corp. Common Stock | KIDS |
 | 19 | 87 | $35.88 | [Chart](https://www.tradingview.com/chart/?symbol=WPP) | WPP PLC | WPP |
-| 23 | 87 | $775.04 | [Chart](https://www.tradingview.com/chart/?symbol=LLY) | Eli Lilly & Co. | LLY |
-| 24 | 87 | $28.46 | [Chart](https://www.tradingview.com/chart/?symbol=RNA) | Avidity Biosciences, Inc. Common Stock | RNA |
+| 27 | 87 | $18.20 | [Chart](https://www.tradingview.com/chart/?symbol=S) | SentinelOne, Inc. | S |
 | 19 | 86 | $290.91 | [Chart](https://www.tradingview.com/chart/?symbol=UTHR) | United Therapeutics Corp | UTHR |
-| 28 | 86 | $18.22 | [Chart](https://www.tradingview.com/chart/?symbol=S) | SentinelOne, Inc. | S |
+| 23 | 86 | $775.69 | [Chart](https://www.tradingview.com/chart/?symbol=LLY) | Eli Lilly & Co. | LLY |
 | 19 | 85 | $18.88 | [Chart](https://www.tradingview.com/chart/?symbol=MSDL) | Morgan Stanley Direct Lending Fund | MSDL |
-| 21 | 85 | $298.86 | [Chart](https://www.tradingview.com/chart/?symbol=ACN) | Accenture PLC | ACN |
-| 19 | 82 | $54.98 | [Chart](https://www.tradingview.com/chart/?symbol=DAY) | Dayforce, Inc. | DAY |
+| 21 | 85 | $299.28 | [Chart](https://www.tradingview.com/chart/?symbol=ACN) | Accenture PLC | ACN |
+| 18 | 82 | $54.90 | [Chart](https://www.tradingview.com/chart/?symbol=DAY) | Dayforce, Inc. | DAY |
 | 21 | 82 | $76.29 | [Chart](https://www.tradingview.com/chart/?symbol=CNS) | Cohen & Steers Inc. | CNS |
-| 28 | 80 | $13.04 | [Chart](https://www.tradingview.com/chart/?symbol=RIVN) | Rivian Automotive, Inc. Class A Common Stock | RIVN |
-| 24 | 78 | $69.02 | [Chart](https://www.tradingview.com/chart/?symbol=BRC) | Brady Corporation | BRC |
-| 30 | 77 | $103.40 | [Chart](https://www.tradingview.com/chart/?symbol=DEO) | Diageo plc | DEO |
+| 27 | 81 | $29.87 | [Chart](https://www.tradingview.com/chart/?symbol=CRNX) | Crinetics Pharmaceuticals, Inc. | CRNX |
+| 23 | 79 | $69.02 | [Chart](https://www.tradingview.com/chart/?symbol=BRC) | Brady Corporation | BRC |
+| 32 | 75 | $13.20 | [Chart](https://www.tradingview.com/chart/?symbol=RIVN) | Rivian Automotive, Inc. Class A Common Stock | RIVN |
 | 32 | 72 | $126.44 | [Chart](https://www.tradingview.com/chart/?symbol=RGEN) | Repligen Corp | RGEN |
-| 33 | 68 | $23.09 | [Chart](https://www.tradingview.com/chart/?symbol=IBHF) | iShares iBonds 2026 Term High Yield and Income ETF | IBHF |
-| 33 | 68 | $22.84 | [Chart](https://www.tradingview.com/chart/?symbol=IBTG) | iShares iBonds Dec 2026 Term Treasury ETF | IBTG |
-| 36 | 65 | $58.55 | [Chart](https://www.tradingview.com/chart/?symbol=VGSH) | Vanguard Short-Term Treasury ETF | VGSH |
+| 32 | 69 | $23.09 | [Chart](https://www.tradingview.com/chart/?symbol=IBHF) | iShares iBonds 2026 Term High Yield and Income ETF | IBHF |
+| 35 | 67 | $22.85 | [Chart](https://www.tradingview.com/chart/?symbol=IBTG) | iShares iBonds Dec 2026 Term Treasury ETF | IBTG |
+| 36 | 64 | $58.55 | [Chart](https://www.tradingview.com/chart/?symbol=VGSH) | Vanguard Short-Term Treasury ETF | VGSH |
 
 ## **Methodology**
 
